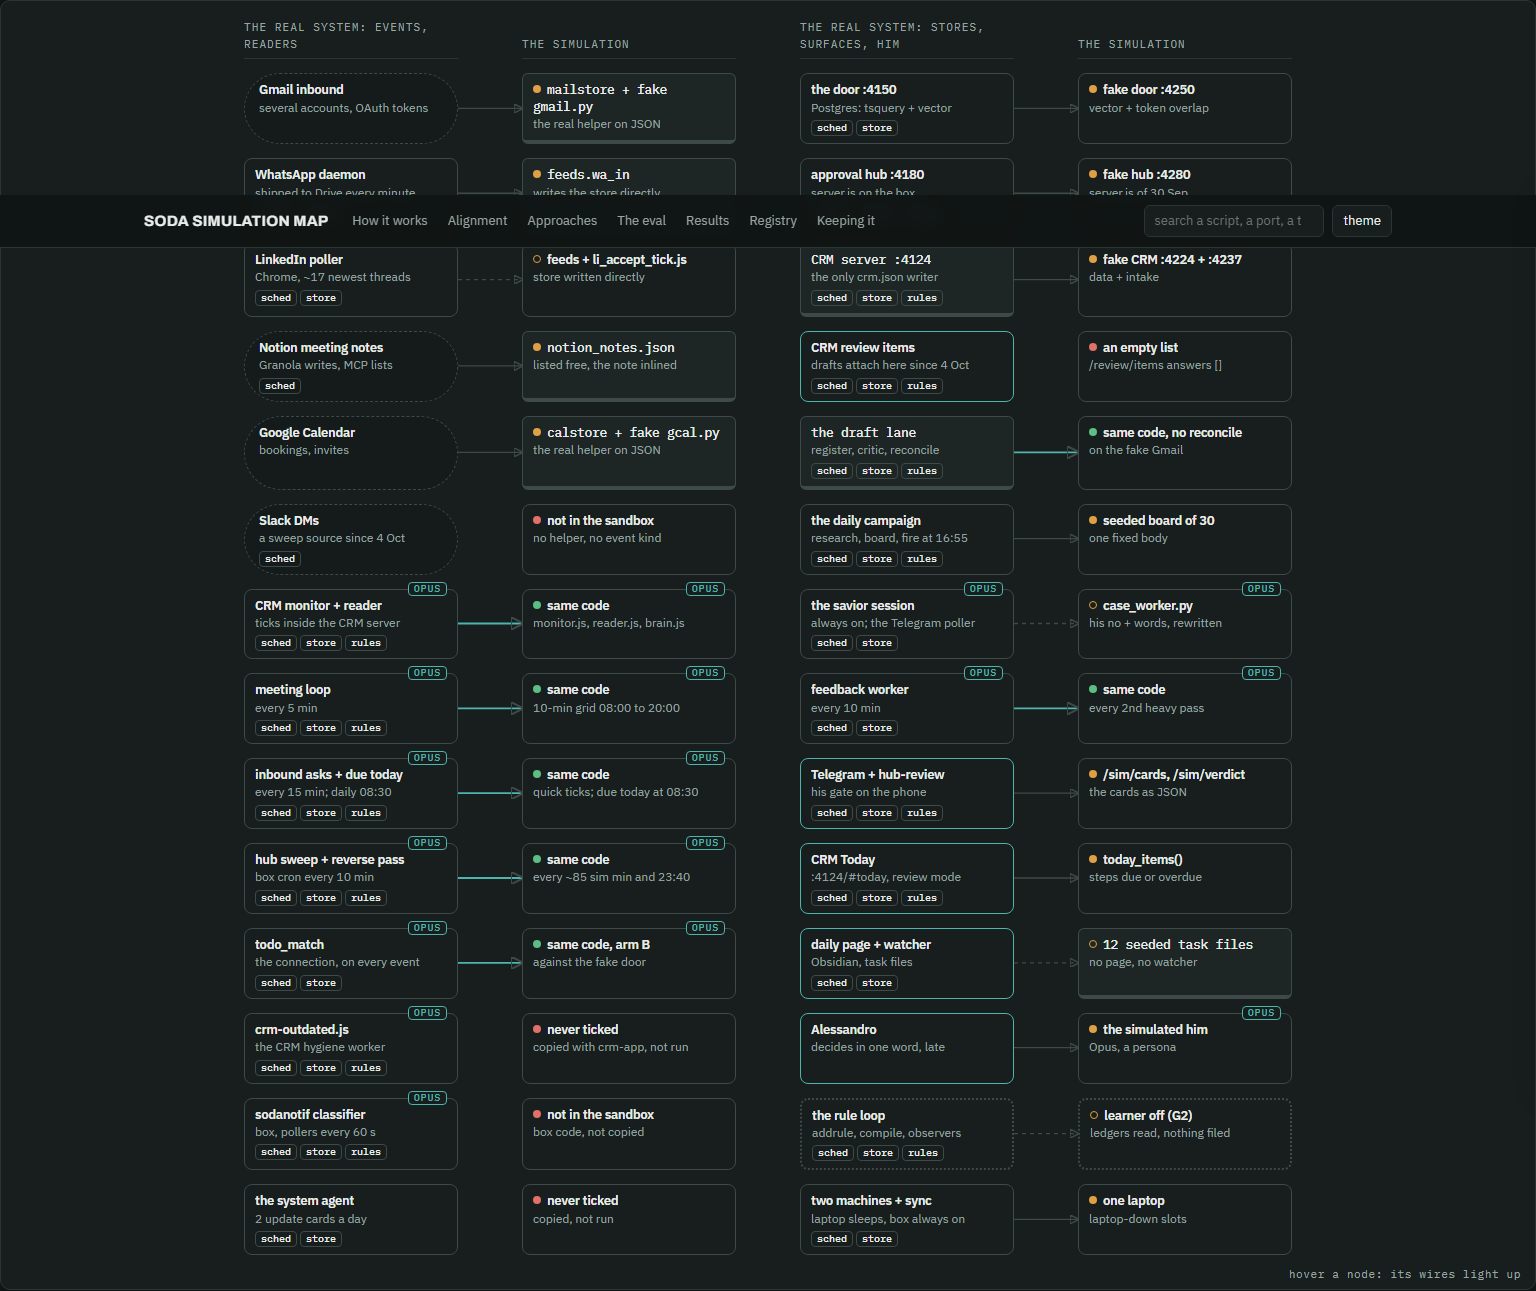
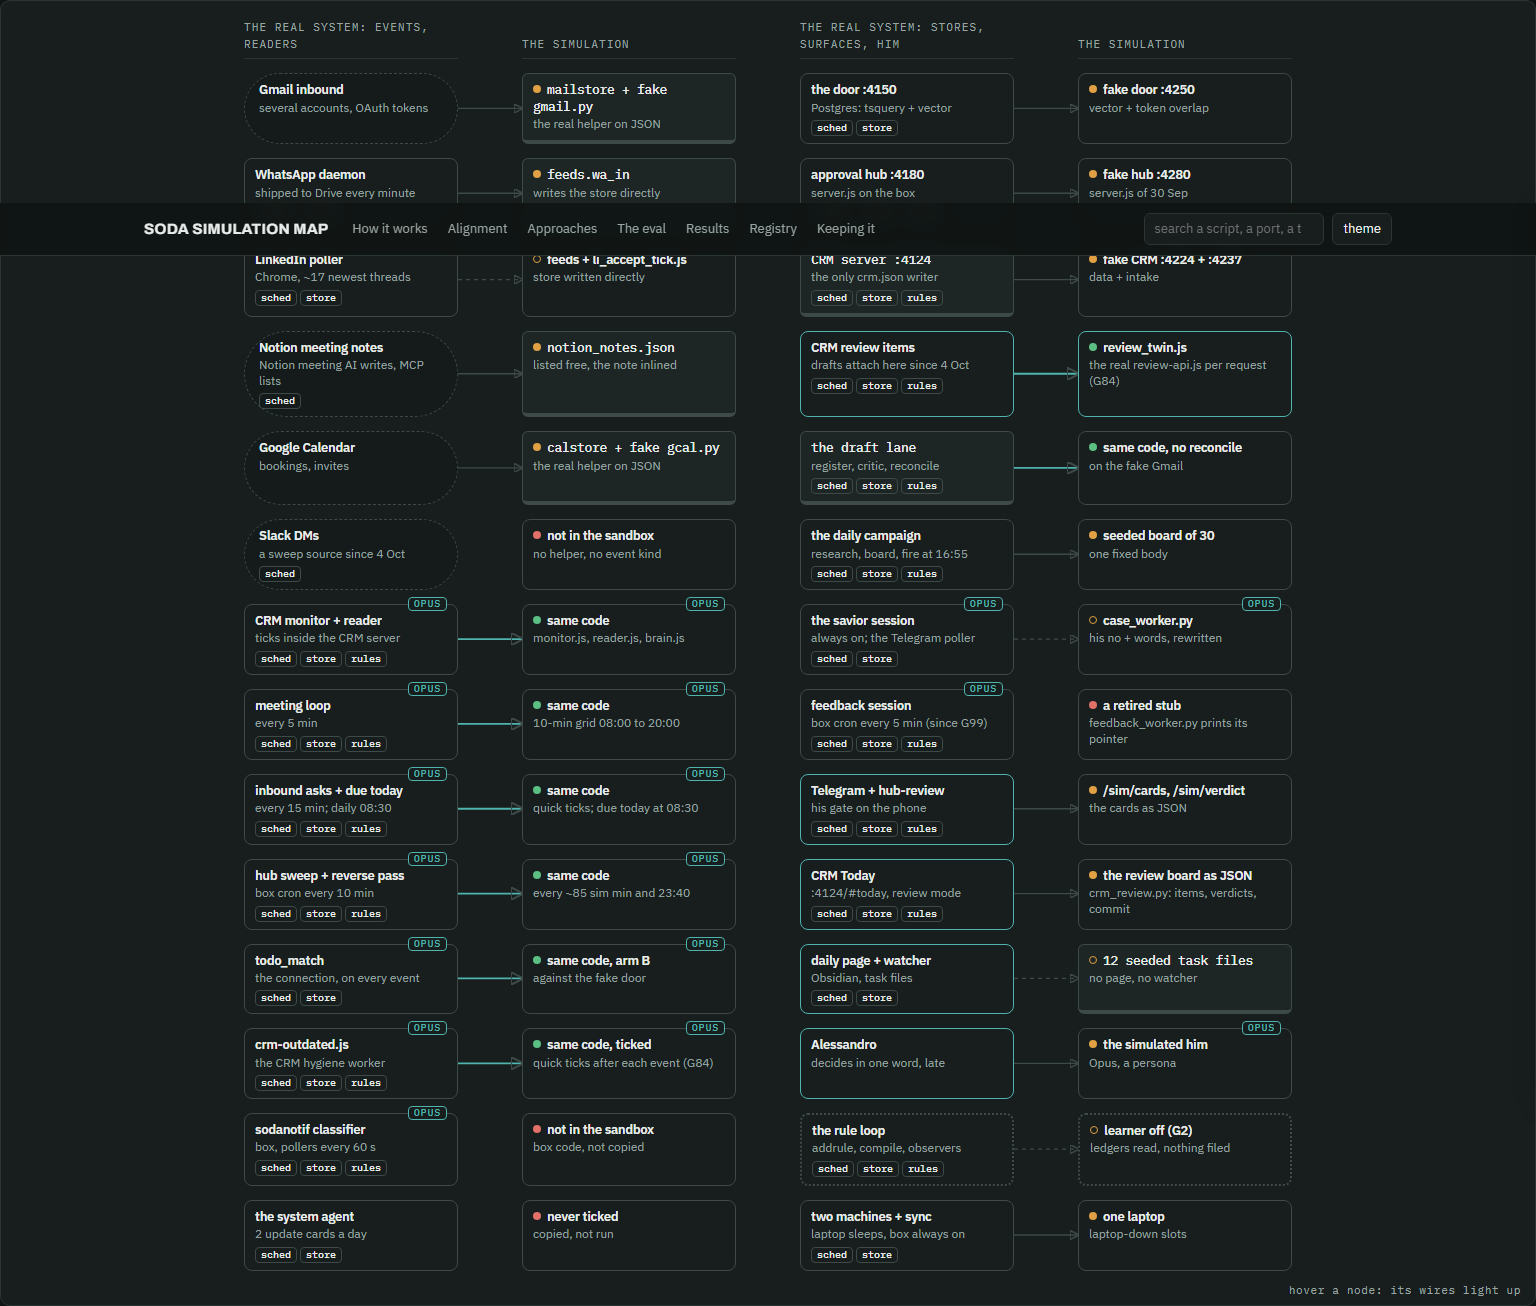
simulation map: G84-G86 (CRM review twin, harness fixes, acceptance run), review CLEAN
Claude-Session: https://claude.ai/code/session_01Vo2aCdUqy7Y8WLzcE73pjw

diff --git a/system/SODA-SIMULATION-MAP.html b/system/SODA-SIMULATION-MAP.html
@@ -526,8 +526,8 @@ const ALIGN = [
   why:"The tick and the plan are live code; the board is seeded once with a fixed subject and body; the Opus research round is not run (paused live too); LinkedIn sends are the run-commit stub."},
  {id:"savior",h:1,st:"stub",real:{label:"the savior session",kind:"reader",sub:"always on; the Telegram poller",sched:"tmux; box-sessions.sh 5 min; prompt watch 1 min",store:"its session",ledger:""},sim:{label:"case_worker.py",kind:"reader",sub:"his no + words, rewritten"},
   why:"Plays one job of the savior: his no plus a sentence becomes a rewritten draft and a revised card, at most twice. The pre-sweep, commits, corrections and rule filing are absent."},
- {id:"fb",h:1,st:"same",real:{label:"feedback worker",kind:"reader",sub:"every 10 min",sched:"DA-FeedbackWorker",store:"system-feedback.jsonl",ledger:""},sim:{label:"same code",kind:"reader",sub:"every 2nd heavy pass"},
-  why:"Live code on the sandbox queue, about one pass every three simulated hours; the unattended full-permission path is patched out (it escaped once by ssh on 1 Oct)."},
+ {id:"fb",h:1,st:"missing",real:{label:"feedback session",kind:"reader",sub:"box cron every 5 min (since G99)",sched:"box cron */5",store:"queue.jsonl, system-feedback.jsonl",ledger:"every ledger"},sim:{label:"a retired stub",kind:"script",sub:"feedback_worker.py prints its pointer"},
+  why:"Since 4 Oct (goal run G99) feedback_worker.py is a stub and the box feedback session (feedback_session.py, a resumed Opus session) files his sentences; the sandbox does not run it, so his hub sentences are not filed in a run. His CRM board comments are: the review commit's own digest runs in review_twin.js."},
  {id:"gate",h:1,st:"fake",real:{label:"Telegram + hub-review",kind:"surface",sub:"his gate on the phone",sched:"da-tg-bridge; review supervisor 5 min",store:"queue.jsonl",ledger:"HUB-CARD-CONTRACT"},sim:{label:"/sim/cards, /sim/verdict",kind:"script",sub:"the cards as JSON"},
   why:"The simulated him reads each card's text and context, what he would read; the phone layout, the one-word Telegram replies and the review page's commit flow are not exercised."},
  {id:"today",h:1,st:"fake",real:{label:"CRM Today",kind:"surface",sub:":4124/#today, review mode",sched:"inside the CRM server",store:"crm.json",ledger:"CRM-CONTRACT"},sim:{label:"the review board as JSON",kind:"script",sub:"crm_review.py: items, verdicts, commit"},
@@ -730,7 +730,7 @@ function alignTable(){
   const c=k=>ALIGN.filter(p=>p.st===k).length;
   $("#n-real").textContent=ALIGN.length; $("#n-same").textContent=c("same"); $("#n-fake").textContent=c("fake")+c("stub"); $("#n-missing").textContent=c("missing");
   const sched=ALIGN.filter(p=>p.real.sched).length, store=ALIGN.filter(p=>p.real.store).length, led=ALIGN.filter(p=>p.real.ledger).length;
-  $("#gap-summary").innerHTML=`Of the ${ALIGN.length} real components the simulation is meant to test, it runs <b>${c("same")}</b> unchanged (the readers, the sweep, the connection, the draft lane, the feedback worker), replaces <b>${c("fake")}</b> with stand-ins and <b>${c("stub")}</b> with stubs, and leaves out <b>${c("missing")}</b>: Slack, the notification classifier and the system agent. The surface area it maps: <b>${sched}</b> of the ${ALIGN.length} carry their own schedule, <b>${store}</b> their own store, <b>${led}</b> a rule ledger of their own; every one of those is a part to keep alive in the real system and a part the simulation has to copy, fake or skip.`;
+  $("#gap-summary").innerHTML=`Of the ${ALIGN.length} real components the simulation is meant to test, it runs <b>${c("same")}</b> unchanged (the readers, the sweep, the connection, the draft lane, the CRM review items, crm-outdated), replaces <b>${c("fake")}</b> with stand-ins and <b>${c("stub")}</b> with stubs, and leaves out <b>${c("missing")}</b>: Slack, the box feedback session, the notification classifier and the system agent. The surface area it maps: <b>${sched}</b> of the ${ALIGN.length} carry their own schedule, <b>${store}</b> their own store, <b>${led}</b> a rule ledger of their own; every one of those is a part to keep alive in the real system and a part the simulation has to copy, fake or skip.`;
 }
 function metricsTable(){const tb=$("#mtable tbody");for(const [m,d,s,w] of METRICS){const tr=document.createElement("tr");tr.dataset.text=[m,d,s,w].join(" ").toLowerCase();tr.innerHTML=`<td><b>${m}</b></td><td>${d}</td><td>${s}</td><td>${w}</td>`;tb.appendChild(tr)}}
 function regTable(){const tb=$("#wtable tbody");for(const [p,k,w,t,r,f] of REG){const tr=document.createElement("tr");tr.dataset.text=[p,k,w,t,r,f].join(" ").toLowerCase();tr.innerHTML=`<td><b>${p}</b></td><td>${k}</td><td>${w}</td><td>${t}</td><td>${r}</td><td><code>${f}</code></td>`;tb.appendChild(tr)}}
